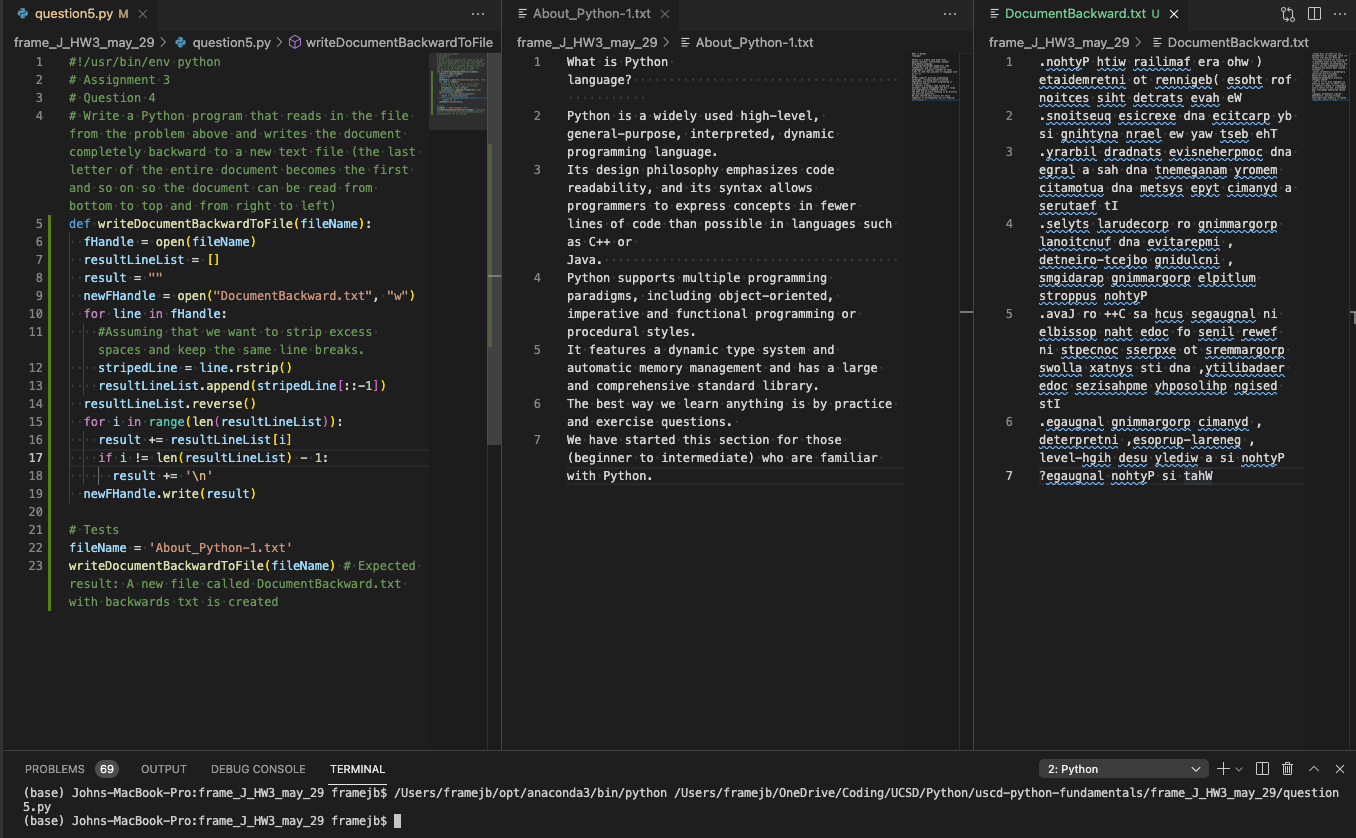
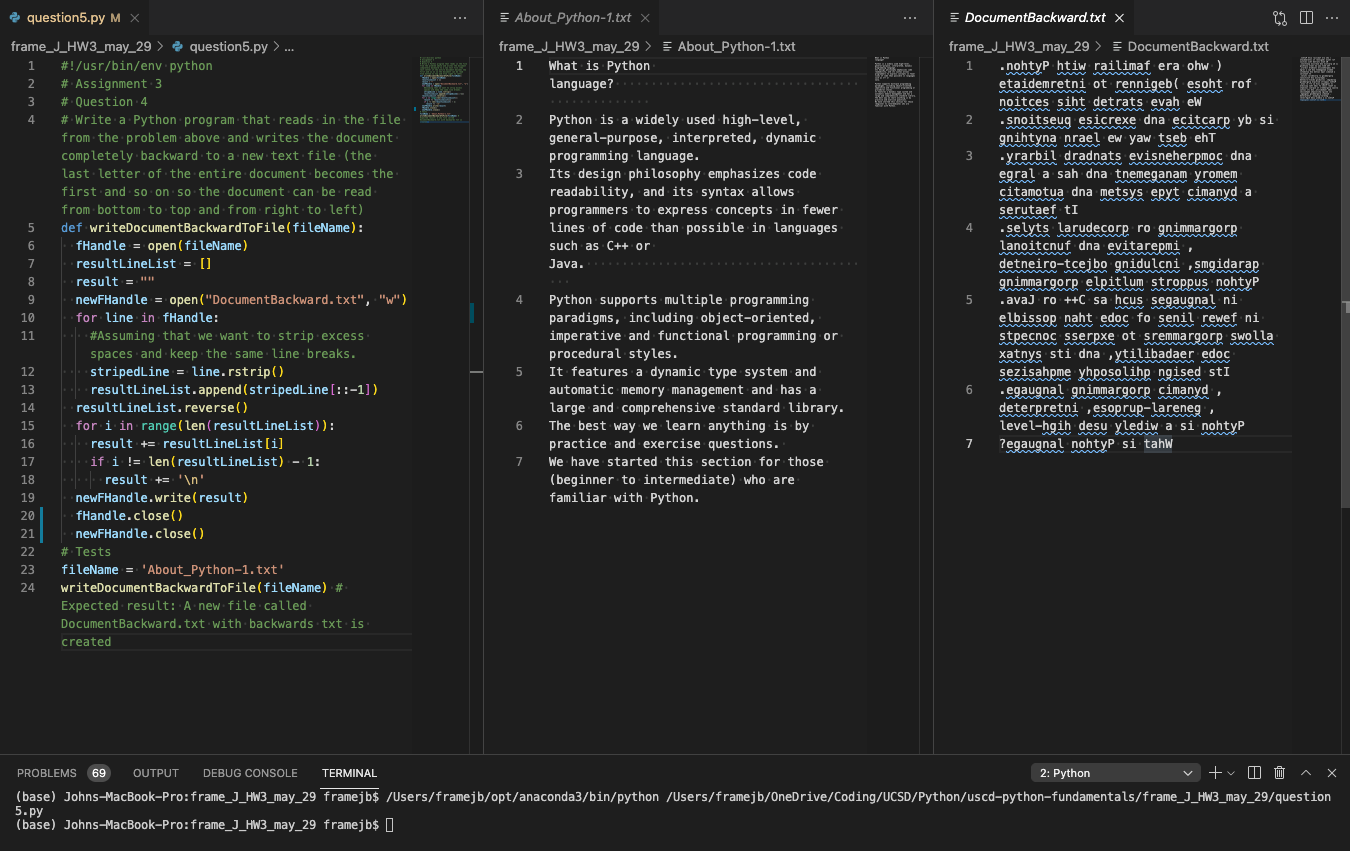
Updated q4 and q5 to close files.

Changed region(s): [[0.0, 0.0, 0.6533, 0.7757], [0.6222, 0.0, 1.0, 0.6205], [0.0, 0.8687, 0.9956, 0.9928]]

diff --git a/frame_J_HW3_may_29/question5.py b/frame_J_HW3_may_29/question5.py
@@ -17,7 +17,8 @@ def writeDocumentBackwardToFile(fileName):
     if i != len(resultLineList) - 1:
       result += '\n'
   newFHandle.write(result)
-
+  fHandle.close()
+  newFHandle.close()
 # Tests
 fileName = 'About_Python-1.txt'
 writeDocumentBackwardToFile(fileName) # Expected result: A new file called DocumentBackward.txt with backwards txt is created

diff --git a/frame_J_HW3_may_29/question4.py b/frame_J_HW3_may_29/question4.py
@@ -9,6 +9,7 @@ def countLinesAndWords(fileName):
   for line in fHandle:
     lineCount += 1
     wordCount += len(line.rstrip().split(' '))
+  fHandle.close()
   print("The file " + str(fileName) + " has " + str(lineCount) + " lines and " + str(wordCount) + " words.")
 
 # Tests
